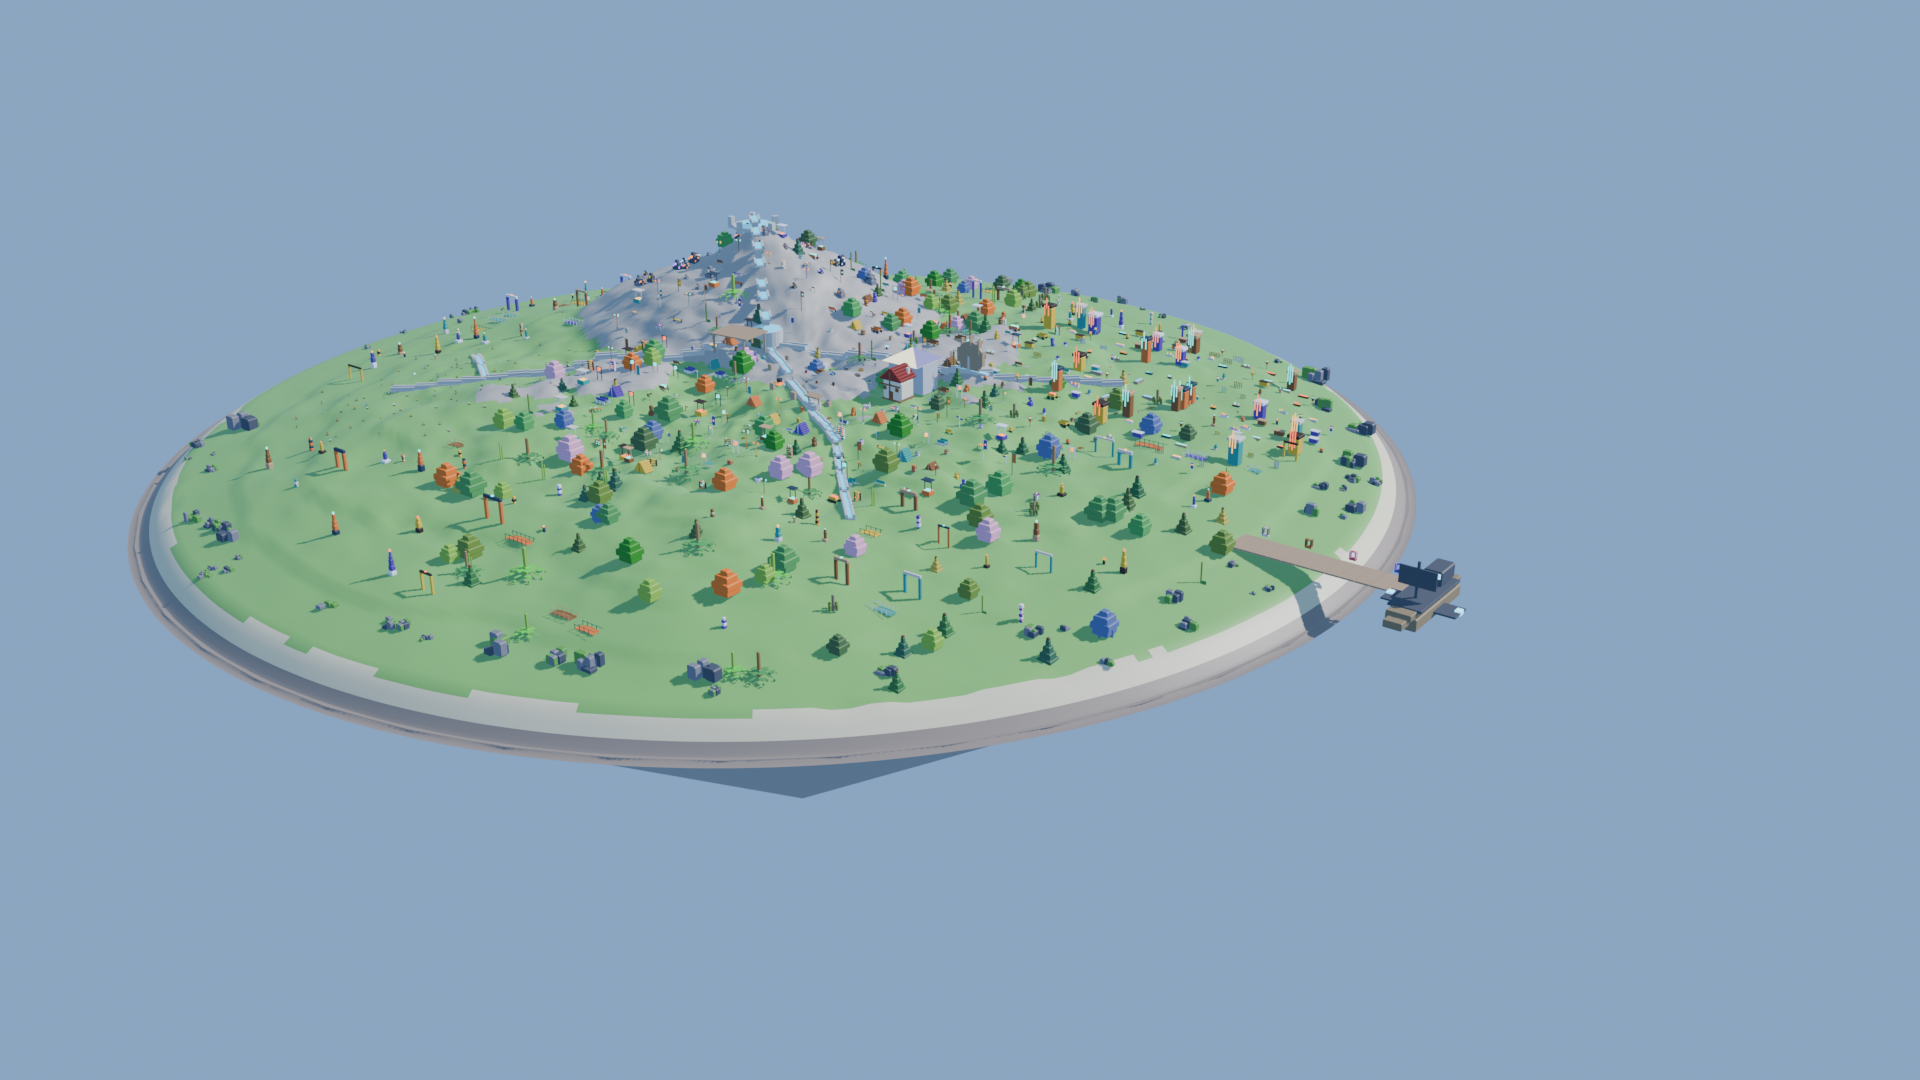
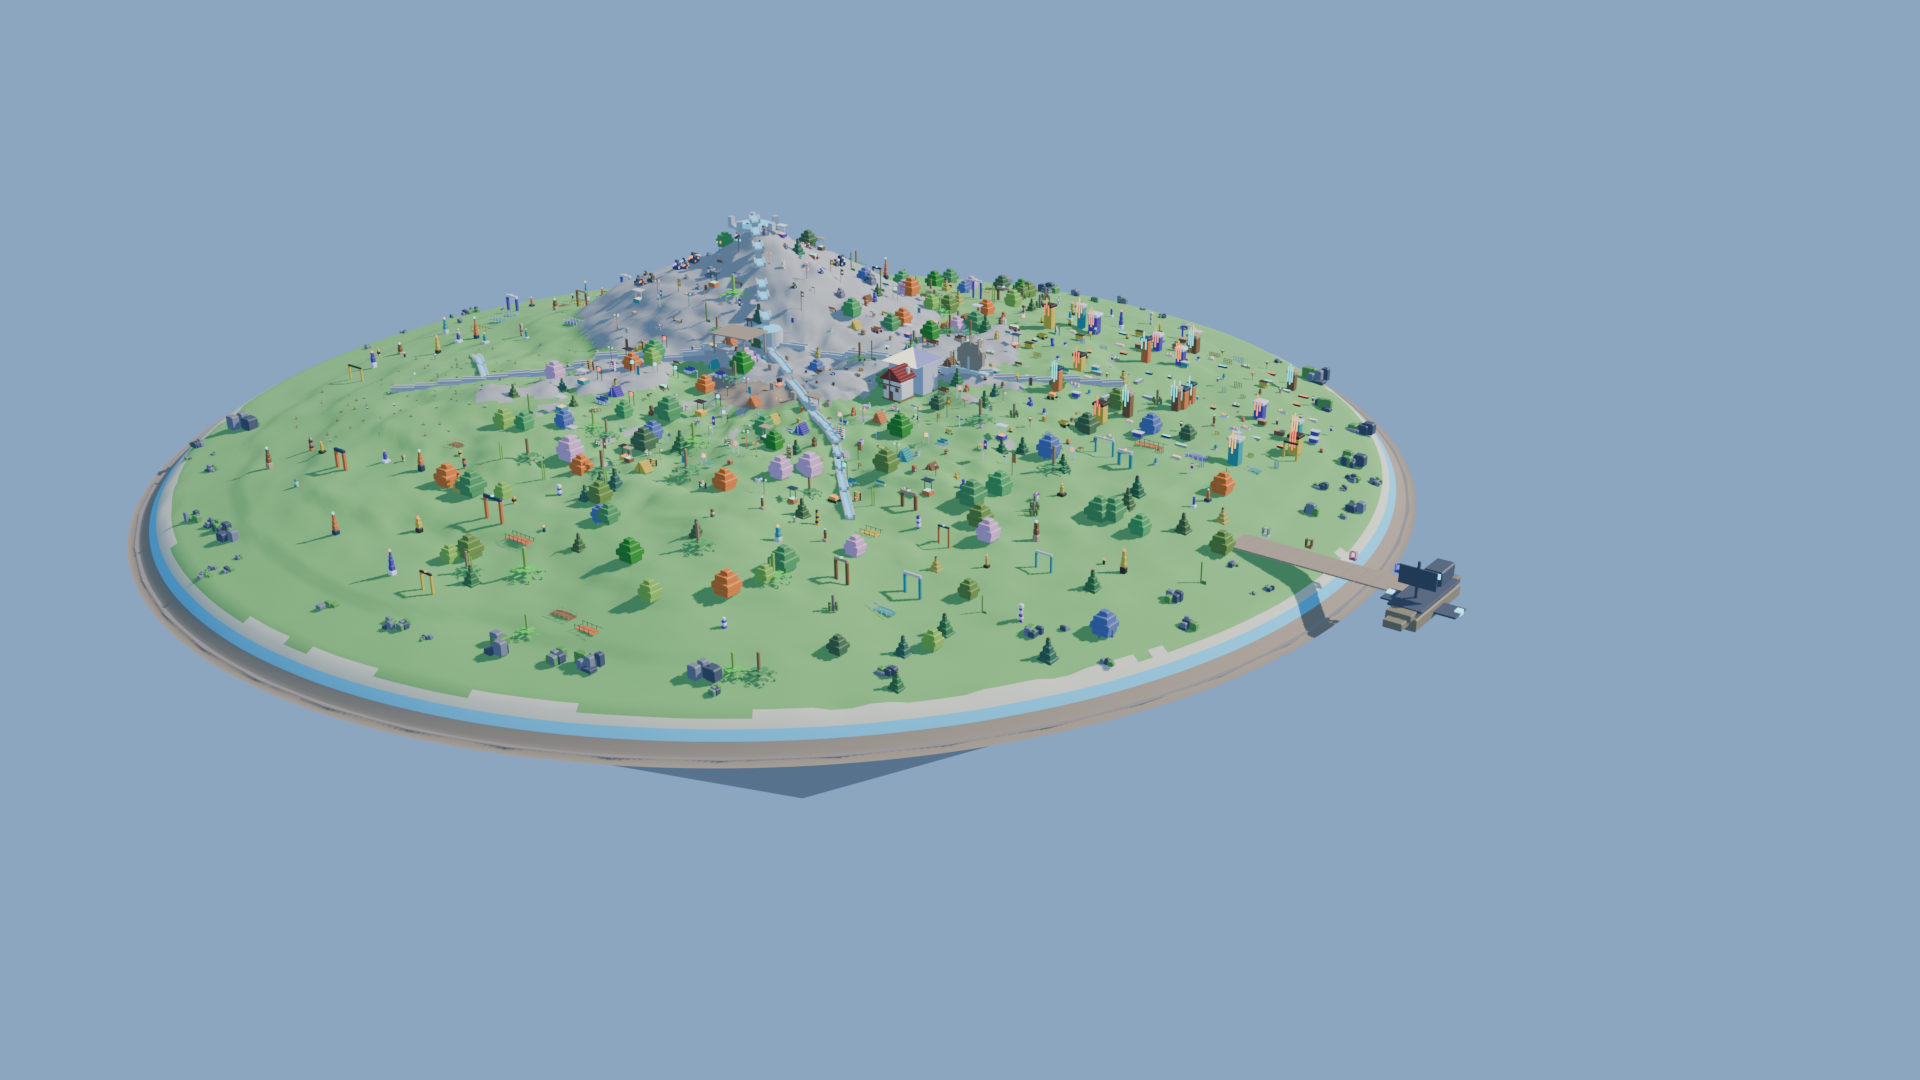
BlenderBoss: flat terrain material slots; BB_MODE=base (re-place base only)

diff --git a/tools/islands/blenderboss/bb_island_ue.py b/tools/islands/blenderboss/bb_island_ue.py
@@ -15,7 +15,8 @@ ART = "/Game/Daedalus/Art"
 SUB, PERSIST, SUBNAME = "/Game/BlenderBoss/Maps/BlenderBossIsland", "/Game/Daedalus/DaedalusWorld", "BlenderBossIsland"
 FOLDER = "BlenderBoss"
 IMPORT_BUDGET_S = float(os.environ.get("BB_IMPORT_S", "200"))
-MAKEUP = os.environ.get("BB_MODE", "") == "makeup"   # keep existing placements; re-place base + place only assets with no actor yet
+BASEONLY = os.environ.get("BB_MODE", "") == "base"   # re-import + re-place ONLY the island base (terrain colour fix)
+MAKEUP = os.environ.get("BB_MODE", "") == "makeup" or BASEONLY   # keep existing placements; re-place base + place only assets with no actor yet
 BASE_MIN_CM = 10000.0   # the island is 240 m across; a base mesh smaller than 100 m means the wrong asset was found
 SHOT = os.environ.get("BB_SHOT", r"C:\Users\730ri\projects\bot-team\shots\blenderboss\ue_island.png")
 eal = unreal.EditorAssetLibrary
@@ -98,7 +99,7 @@ def run():
     lay = json.load(open(LAYOUT))
     ox, oy, oz = lay["origin_cm"]; base = lay["base_asset"]
     names = sorted({p["asset"] for p in lay["placements"]})
-    imported = import_missing([base] + names, force=(base,))   # base always re-imported (water chain lives there)
+    imported = import_missing([base] + ([] if BASEONLY else names), force=(base,))   # base always re-imported (water chain lives there)
     les = open_sublevel()
     actors = unreal.get_editor_subsystem(unreal.EditorActorSubsystem)
     present = set()
@@ -114,7 +115,7 @@ def run():
         if base_cm < BASE_MIN_CM: log(f"base mesh only {base_cm:.0f} cm across: wrong asset, not placing"); bm = None
     if bm: spawn(actors, bm, unreal.Vector(ox, oy, oz), 0, 1.0, f"{FOLDER}/base", "BlenderBoss Island Base")
     placed, missing = 0, set()
-    for p in lay["placements"]:
+    for p in ([] if BASEONLY else lay["placements"]):
         if MAKEUP and p["asset"] in present: continue
         m = mesh(p["asset"])
         if m is None: missing.add(p["asset"]); continue
@@ -135,7 +136,7 @@ def run():
         unreal.AutomationLibrary.take_high_res_screenshot(1600, 900, SHOT, camera=cam); shot = SHOT
     except Exception as e: log(f"screenshot: {e}")
     want = len(lay["placements"]); kept = sum(1 for p in lay["placements"] if p["asset"] in present); total = placed + kept
-    ok = bool(bm) and total >= int(0.9 * want)
+    ok = bool(bm) and (BASEONLY or total >= int(0.9 * want))
     log(f"base={'ok' if bm else 'MISSING'} placed={placed}/{want} imported={imported} missing={len(missing)} {'PASS' if ok else 'FAIL'}")
     return {"ok": ok, "base": bool(bm), "placed": total, "new": placed, "kept": kept, "base_cm": round(base_cm), "want": want, "imported": imported, "missing_n": len(missing), "missing": sorted(missing)[:20], "shot": shot}
 

diff --git a/tools/islands/blenderboss/flagship.py b/tools/islands/blenderboss/flagship.py
@@ -27,15 +27,24 @@ lip = [bm.verts.new((v.co.x*1.01, v.co.y*1.01, -3.0)) for v in rings[-1]]
 for j in range(SEG): bm.faces.new((rings[-1][j], lip[j], lip[(j+1) % SEG], rings[-1][(j+1) % SEG]))
 me = bpy.data.meshes.new(NAME+"_Terrain"); bm.normal_update(); bm.to_mesh(me); bm.free()
 ter = bpy.data.objects.new(NAME+"_Terrain", me); root.objects.link(ter); BASE.append(ter)
-col = me.color_attributes.new("Col", "BYTE_COLOR", "CORNER")
+# flat material slots (Unreal's glTF import ignores vertex colours -> terrain showed white): 0 grass 1 rock 2 sand 3 dirt 4 water
+def tmat(n, c, a=1.0):
+    m = bpy.data.materials.new(n); m.use_nodes = True; p = m.node_tree.nodes["Principled BSDF"]
+    p.inputs["Base Color"].default_value = c; p.inputs["Roughness"].default_value = 0.9 if a == 1.0 else 0.1
+    if a < 1.0: p.inputs["Alpha"].default_value = a; m.blend_method = "BLEND"
+    me.materials.append(m)
+tmat("M_BB_Grass", (0.20, 0.50, 0.12, 1)); tmat("M_BB_TerrainRock", (0.45, 0.42, 0.38, 1)); tmat("M_BB_Sand", (0.80, 0.72, 0.50, 1))
+tmat("M_BB_Dirt", (0.36, 0.26, 0.17, 1)); tmat("M_BB_ShoreWater", (0.10, 0.62, 0.85, 1))
 for poly in me.polygons:
-    z = sum(me.vertices[k].co.z for k in poly.vertices)/len(poly.vertices)
-    c = (0.80,0.72,0.50,1) if z < 1.5 else (0.20,0.50,0.12,1) if z < 13 else (0.45,0.42,0.38,1)
-    if z < -0.5: c = (0.30,0.24,0.20,1)
-    for li in poly.loop_indices: col.data[li].color = c
-m = bpy.data.materials.new("M_BB_Terrain"); m.use_nodes = True
-vc = m.node_tree.nodes.new("ShaderNodeVertexColor"); vc.layer_name = "Col"
-m.node_tree.links.new(vc.outputs[0], m.node_tree.nodes["Principled BSDF"].inputs[0]); me.materials.append(m)
+    vs = [me.vertices[k].co for k in poly.vertices]; z = sum(v.z for v in vs)/len(vs); cx = sum(v.x for v in vs)/len(vs); cy = sum(v.y for v in vs)/len(vs)
+    d = math.hypot(cx, cy) / R; steep = poly.normal.z < 0.80 if poly.area > 0 else False
+    if z < -0.5: k = 3                                          # rim lip / underside edge
+    elif d > 0.93 and z < 0.5: k = 4                            # wet shoreline ring
+    elif z < 1.5: k = 2                                         # beach
+    elif z >= 13 or steep: k = 1                                # hilltop / cliffs
+    elif math.hypot(cx + 35, cy - 30) < 26 or math.hypot(cx, cy) < 14: k = 3   # quarry floor + plaza dirt
+    else: k = 0
+    poly.material_index = k
 for p in me.polygons: p.use_smooth = True
 # underside: inverted cone
 bpy.ops.mesh.primitive_cone_add(vertices=48, radius1=R*1.0, depth=80, location=(0, 0, -42.5)); cone = bpy.context.object
